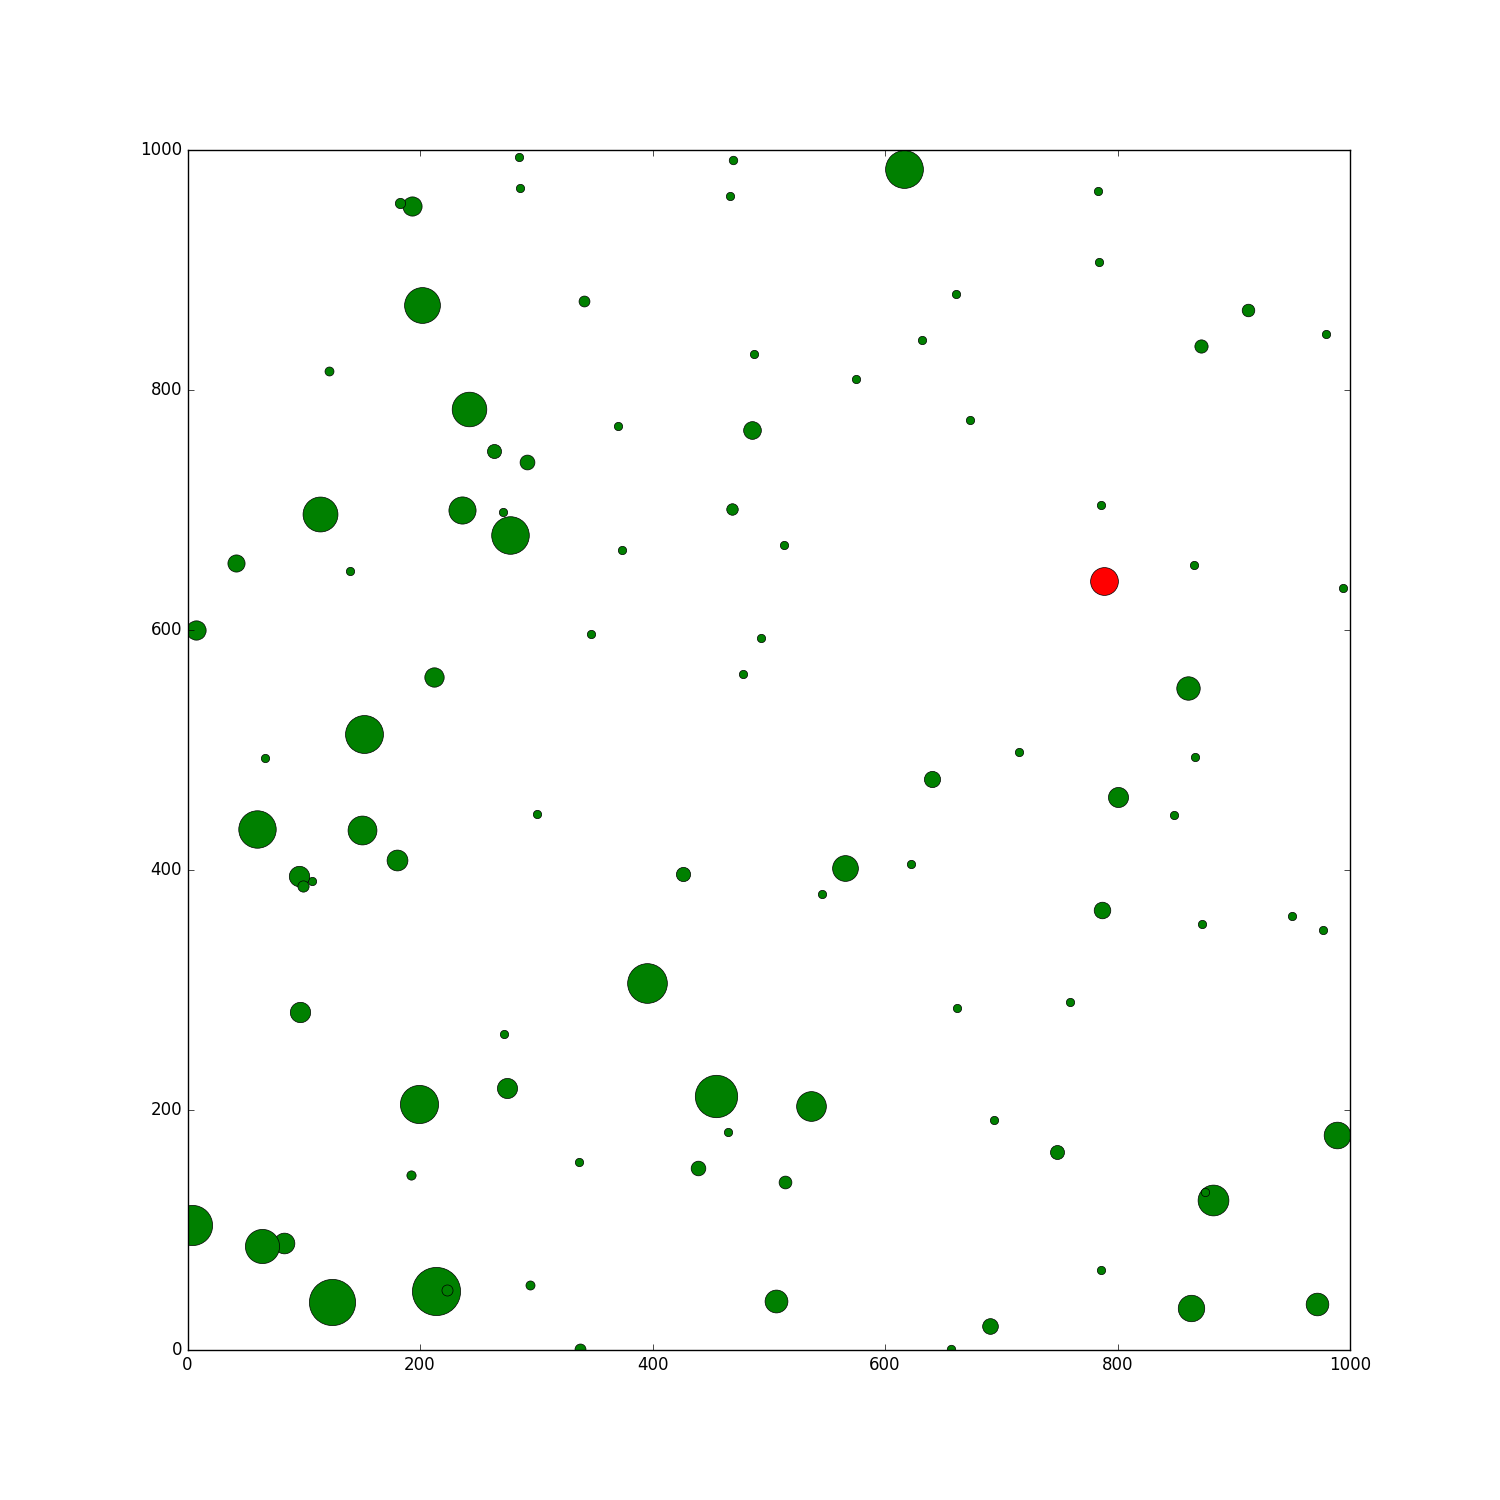
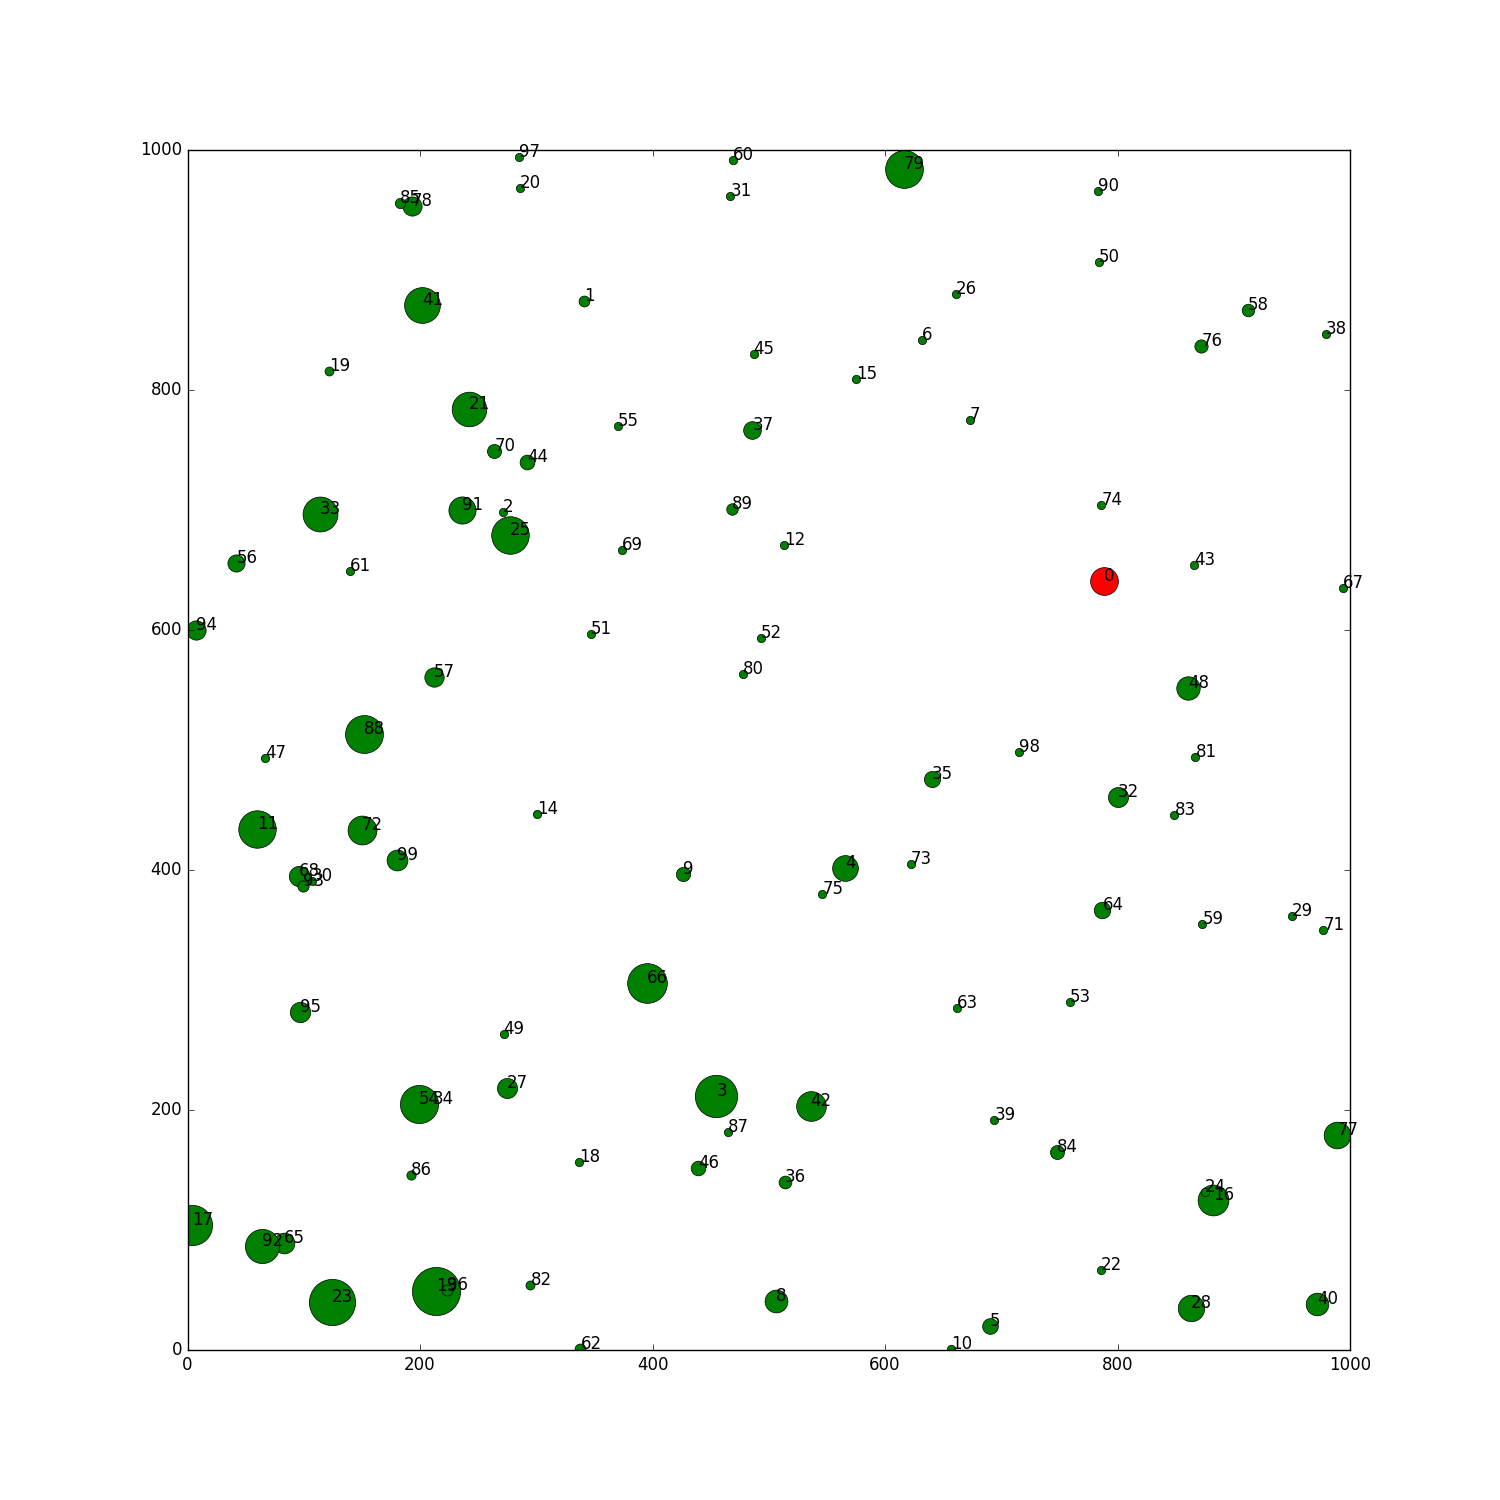
Put numbers

Changed region(s): [[0.276, 0.7053, 0.3067, 0.736]]

diff --git a/draw_path.py b/draw_path.py
@@ -37,9 +37,16 @@ Y = [e[1] for e in pos]
 
 marksize = [t / 50.0 / coefficient for t in overflow_time]
 
+# Draw points
 plt.plot(X[0], Y[0], "o", color="r", ms=20)
-for i in range(0, num_nodes):
+for i in range(1, num_nodes):
     plt.plot(X[i], Y[i], "o", color="g", ms=marksize[i])
+
+# Put numbers
+i = 0
+for x, y in zip(X, Y):
+    plt.annotate(str(i), xy=(x, y))
+    i += 1
 
 # Draw path vector
 X = [pos[e][0] for e in path]

diff --git a/draw_overflow_time.py b/draw_overflow_time.py
@@ -29,8 +29,13 @@ Y = [e[1] for e in pos]
 marksize = [t / 50.0 / coefficient for t in overflow_time]
 
 plt.plot(X[0], Y[0], "o", color="r", ms=20)
-for i in range(0, num_nodes):
+for i in range(1, num_nodes):
     plt.plot(X[i], Y[i], "o", color="g", ms=marksize[i])
+
+i = 0
+for x, y in zip(X, Y):
+    plt.annotate(str(i), xy=(x, y))
+    i += 1
 
 fig = plt.gcf()
 fig.set_size_inches(15, 15)

diff --git a/draw_positions.py b/draw_positions.py
@@ -22,6 +22,13 @@ Y = [e[1] for e in pos]
 
 plt.plot(X[0], Y[0], "o", color="r", ms=20)
 plt.plot(X[1:], Y[1:], "o", color="g", ms=6)
+
+# put numbers
+i = 0
+for x, y in zip(X, Y):
+    plt.annotate(str(i), xy=(x, y))
+    i += 1
+
 fig = plt.gcf()
 fig.set_size_inches(15, 15)
 fig.savefig("positions.png")
